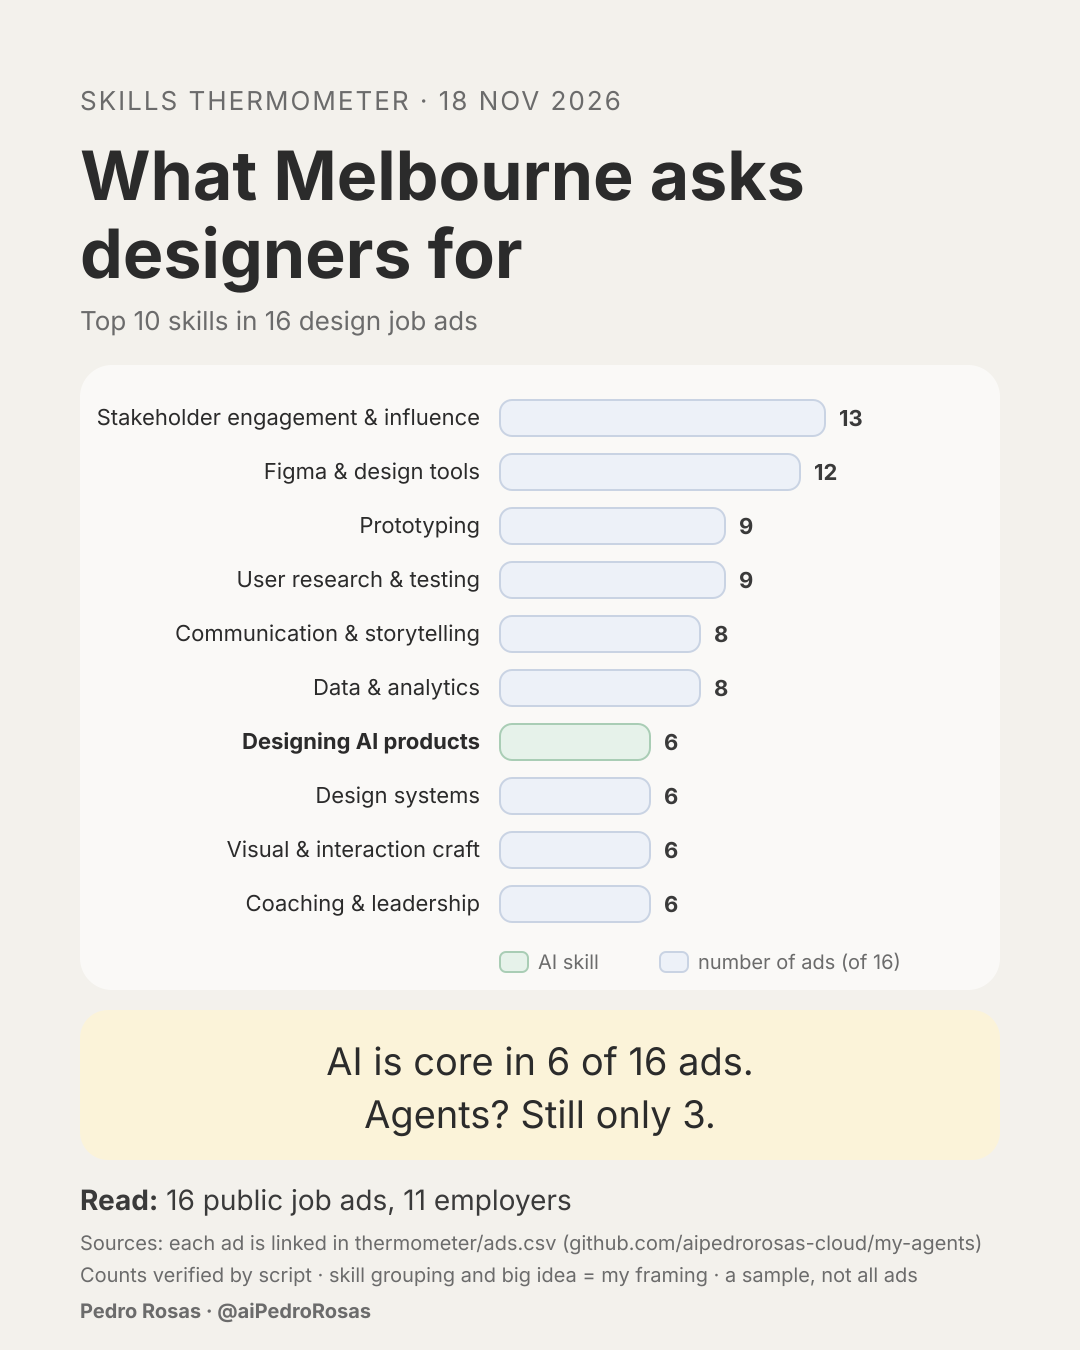
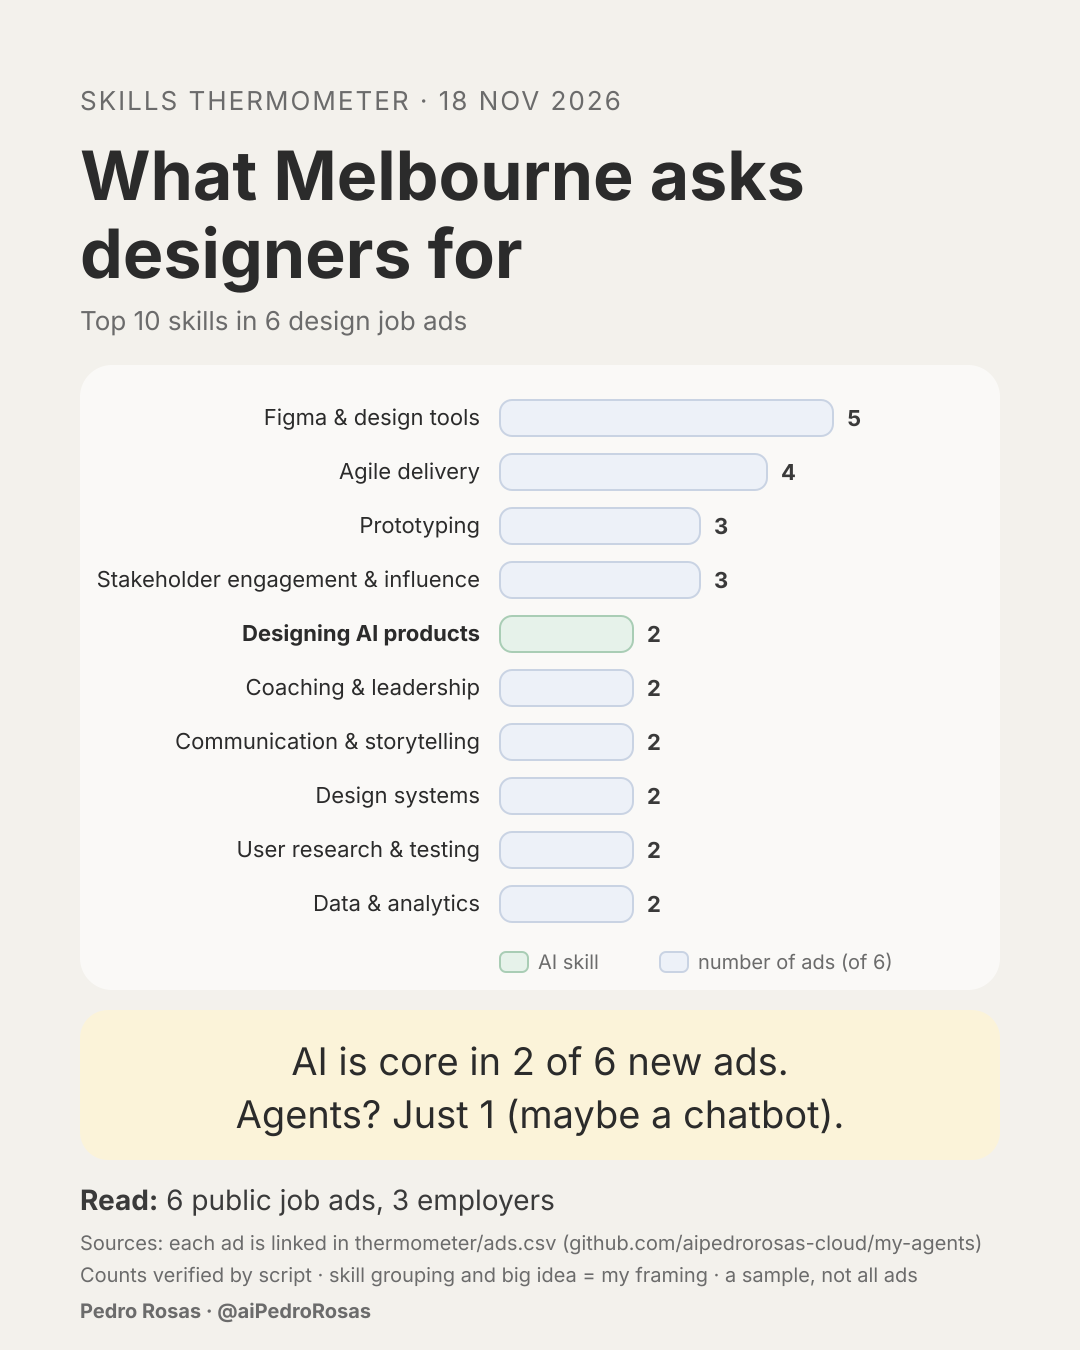
Weekly run by my Skills Thermometer
Claude-Session: https://claude.ai/code/session_01M4yeetMzrzYn1f7Rn5DHHN

diff --git a/cards/2026-11-18-skills-thermometer.md b/cards/2026-11-18-skills-thermometer.md
@@ -1,24 +1,24 @@
 # What Melbourne asks designers for
 
-**Alt text:** A bar chart of the top 10 skills in 16 Melbourne (or remote Australian) design job ads read on 18 Nov 2026 (10 from this morning's test run plus 6 new ones from this scheduled run). Stakeholder engagement and influence appears in 13 ads, Figma and design tools in 12, prototyping and user research in 9, communication and data in 8. Designing AI products, the only AI skill in the top 10, appears in 6 and is shown in green, level with design systems, visual craft and coaching. Big idea: AI is core in 6 of 16 ads; agents still only in 3.
+**Alt text:** A bar chart of the top 10 skills in the 6 new Melbourne (or remote Australian) design job ads read in the first live run on 18 Nov 2026. Figma and design tools appears in 5 ads, Agile delivery in 4, prototyping and stakeholder engagement in 3. Designing AI products, the only AI skill in the top 10, appears in 2 and is shown in green. Big idea: AI is core in 2 of the 6 new ads; only 1 mentions agents, and those may be chatbots.
 
-**One big idea:** AI is core in 6 of 16 ads. Agents? Still only 3.
+**One big idea:** AI is core in 2 of 6 new ads. Agents? Just 1 (maybe a chatbot).
 
-**Note:** this scheduled run fell on the same date as the test run, so "this run" on the card counts both (16 ads). Fewer than 5 would have meant an all-time card; this run found 6 new ads.
+**Counting note:** this card counts only the 6 ads added in this live run. The 10 ads from this morning's test run share the same date, so they were left out by hand (see `cards/2026-11-18-skills-thermometer-test.md`). All-time view (`tally.py`, 16 ads): stakeholder engagement 13, Figma 12, prototyping and user research 9 each; AI core in 6 of 16; agents in 3.
 
-**Top 10 (ads out of 16):**
-1. Stakeholder engagement & influence: 13
-2. Figma & design tools: 12
-3. Prototyping: 9
-4. User research & testing: 9
-5. Communication & storytelling: 8
-6. Data & analytics: 8
-7. Designing AI products: 6 (AI skill)
-8. Design systems: 6
-9. Visual & interaction craft: 6
-10. Coaching & leadership: 6
+**Top 10, this run (ads out of 6):**
+1. Figma & design tools: 5
+2. Agile delivery: 4
+3. Prototyping: 3
+4. Stakeholder engagement & influence: 3
+5. Designing AI products: 2 (AI skill)
+6. Coaching & leadership: 2
+7. Communication & storytelling: 2
+8. Design systems: 2
+9. User research & testing: 2
+10. Data & analytics: 2
 
-AI skills: Designing AI products 6 · AI tools in design work 4 · Conversational interfaces 3 · Agentic workflows & agents 3
+AI skills this run: Designing AI products 2 · Conversational interfaces 1 · Agentic workflows & agents 1 · AI tools in design work 0
 
 **New ads read this run (6):**
 - MYOB, Senior UX/UI Designer (Senior Product Designer, AI Experiences) · AI core: https://jobs.lever.co/myob-2/da978852-439c-4f67-ab26-9347da18e608
@@ -28,6 +28,4 @@ AI skills: Designing AI products 6 · AI tools in design work 4 · Conversationa
 - NAB, Principal Product Designer: https://careers.nab.com.au/mob/test/en/job/795933/principal-product-designer
 - Cresta (vendor), Conversational Designer, APAC (remote Australia) · AI core, "virtual agents": https://job-boards.greenhouse.io/cresta/jobs/5392381008
 
-**Ads from the earlier test run (10):** listed with links in `cards/2026-11-18-skills-thermometer-test.md` and `thermometer/ads.csv`.
-
-**Label:** counts = verified by `thermometer/tally.py` from the ads' own wording · skill grouping and the big idea = my framing · Cresta's "virtual agents" are counted as agents in the employer's words but may be closer to chatbots · a sample of 16 ads, not the whole market (Seek and LinkedIn can't be read)
+**Label:** counts = verified by `thermometer/tally.py` from the ads' own wording · skill grouping and the big idea = my framing · Cresta's "virtual agents" are counted as agents in the employer's words but may be closer to chatbots · a sample of 6 ads (16 all-time), not the whole market (Seek and LinkedIn can't be read)

diff --git a/runs.md b/runs.md
@@ -4,11 +4,11 @@ Newest runs at the top.
 
 ---
 
-## 2026-11-18 · Skills Thermometer · first scheduled run
+## 2026-11-18 · Skills Thermometer · first live run
 - **Searched:** web searches for service, UX, product, content, research and conversation designer roles in Melbourne and remote Australia; MYOB on Lever; NAB, Bupa, Australia Post, Coles, Medibank, VicGov (DGS, DEECA), University of Melbourne; Culture Amp on Greenhouse; UIUX Jobs Board (Australia list); Jobstralia, ZipRecruiter and Hatch copies.
 - **Kept (6 new ads):** MYOB Senior UX/UI Designer (AI Experiences, Melbourne); MYOB Senior Product Content Designer; NAB Senior Product Designer (x2, different domains); NAB Principal Product Designer; Cresta Conversational Designer, APAC (remote Australia, flagged vendor).
 - **Reading:** AI is core in 2 of the 6 new ads; the 4 NAB and content ads have no AI at all. Only Cresta mentions agents ("virtual agent solutions"), and they may be closer to chatbots. Across all 16 ads: AI core in 6, agents in 3.
-- **Same-day note:** this run fell on the same date as the test run, so `tally.py --run 2026-11-18` and the card count all 16 ads read today.
+- **Same-day note:** this run shares its date with the test run, so `tally.py --run 2026-11-18` returns all 16 ads. The card and this run's numbers count only the 6 new rows (top this run: Figma 5, Agile delivery 4, prototyping and stakeholder engagement 3). A second firing of the schedule the same day redrew the card this way and didn't search again, since the first pass had just read the market.
 - **Skipped, and why:**
   - Older than 90 days (date shown): MYOB Senior Service Designer (20 Jul), MYOB Senior Design Researcher (8 Aug), AustralianSuper Senior Service Designer (22 Jul), Datacom Senior Service Designer (6 Jul), Up Senior Product Designer (12 Aug), UniMelb Service Designer (Jul), MYOB Senior Conversational Designer (Mar), RACV Service Design Lead (AI) (2025), Bupa Service Designer, Experience Designer and Design & Content Ops Lead (Jan-Apr), Australia Post Senior Service Designer (2025), Talent International Senior Product Designer (URL stamp July 2026).
   - Sydney, not Melbourne: MYOB Principal AI Experience Designer (new Sydney ad), MYOB Senior UX/UI Designer (Sydney twin), MYOB Senior Service Designer - Embedded Finance, MYOB Design Lead - Mid-Market.
